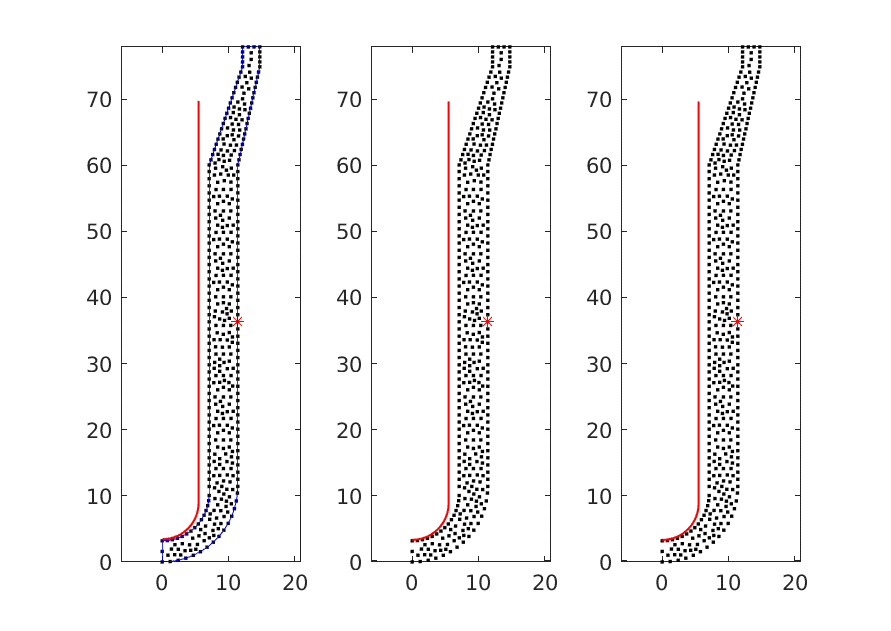
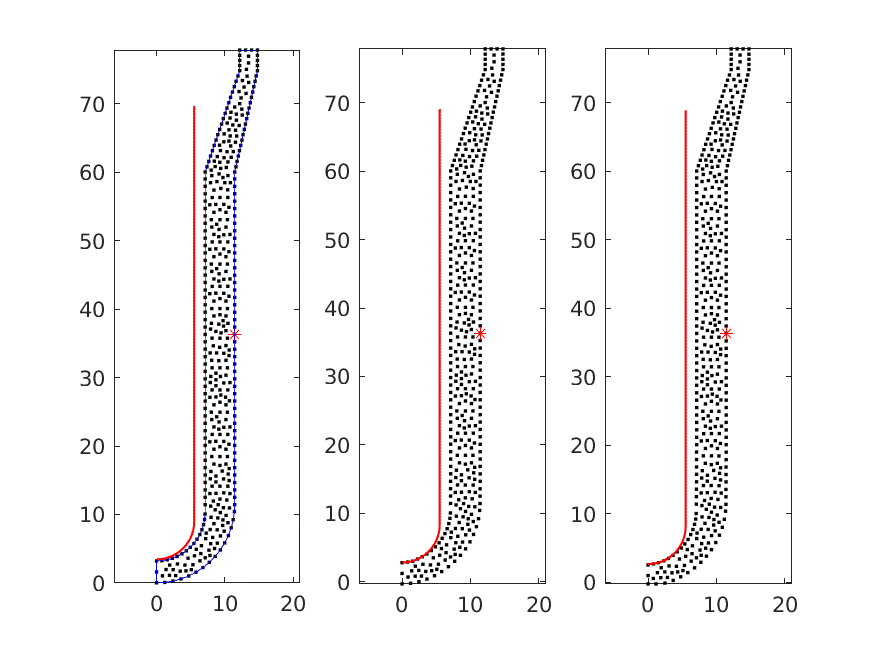
Finished fixing eigenvalue routine

Changed region(s): [[0.6171, 0.0602, 0.9257, 0.9334], [0.0926, 0.0602, 0.3703, 0.9334], [0.3703, 0.0602, 0.648, 0.9334]]

diff --git a/lib/Eigen/src/dsyevh3.c b/lib/Eigen/src/dsyevh3.c
@@ -28,7 +28,7 @@
 #define SQR(x)      ((x)*(x))                        // x^2 
 
 // ----------------------------------------------------------------------------
-int dsyevh3(double A[3][3], double Q[3][3], double w[3])
+int dsyevh3(double ** A_in, double ** Q_in, double w[3])
 // ----------------------------------------------------------------------------
 // Calculates the eigenvalues and normalized eigenvectors of a symmetric 3x3
 // matrix A using Cardano's method for the eigenvalues and an analytical
@@ -63,8 +63,21 @@ int dsyevh3(double A[3][3], double Q[3][3], double w[3])
   int j;                // Loop counter
 #endif
 
+  double A[3][3], Q[3][3];
+
+  for ( int i = 0 ; i < 3 ; i++)
+  {
+    for ( int j = 0 ; j < 3 ; j++)
+    {
+      A[i][j] = A_in[i][j];
+      Q[i][j] = Q_in[i][j];
+    }
+
+  }
+
+
   // Calculate eigenvalues
-  dsyevc3(A, w);
+  dsyevc3(A_in, w);
 
 #ifndef EVALS_ONLY
 //  n0 = SQR(A[0][0]) + SQR(A[0][1]) + SQR(A[0][2]);
@@ -100,7 +113,7 @@ int dsyevh3(double A[3][3], double Q[3][3], double w[3])
   // not cause problems: If w[0] = w[1], then A - w[0] * I has rank 1,
   // i.e. all columns of A - w[0] * I are linearly dependent.
   if (norm <= error)
-    return dsyevq3(A, Q, w);
+    return dsyevq3(A_in, Q_in, w);
   else                      // This is the standard branch
   {
     norm = sqrt(1.0 / norm);
@@ -115,7 +128,7 @@ int dsyevh3(double A[3][3], double Q[3][3], double w[3])
   Q[2][1]  = (A[0][0] - w[1]) * (A[1][1] - w[1]) - Q[2][1];
   norm     = SQR(Q[0][1]) + SQR(Q[1][1]) + SQR(Q[2][1]);
   if (norm <= error)
-    return dsyevq3(A, Q, w);
+    return dsyevq3(A_in, Q_in, w);
   else
   {
     norm = sqrt(1.0 / norm);
@@ -129,6 +142,18 @@ int dsyevh3(double A[3][3], double Q[3][3], double w[3])
   Q[1][2] = Q[2][0]*Q[0][1] - Q[0][0]*Q[2][1];
   Q[2][2] = Q[0][0]*Q[1][1] - Q[1][0]*Q[0][1];
 #endif
+
+  for ( int i = 0 ; i < 3 ; i++)
+  {
+    for ( int j = 0 ; j < 3 ; j++)
+    {
+      Q_in[i][j] = Q[i][j];
+    }
+
+  }
+
+
+
 
   return 0;
 }

diff --git a/MFREEX/src/Deformation/update_Polar_Decomposition.c b/MFREEX/src/Deformation/update_Polar_Decomposition.c
@@ -1,8 +1,76 @@
 #include "Deformation/update_Polar_Decomposition.h"
+#include "dsyevq3.h"
+#include "dsyevv3.h"
+#include "dsyevh3.h"
+#include <math.h>
 
 
 int update_Polar_Decomposition(state_variables * stateNew, state_variables * stateOld, double dt)
 {
+
+
+			// algorithm from simo
+			// mmtr_mlt(stateNew->F, stateNew->F, stateNew->B);
+			// MAT * Q = stateNew->m_temp1;
+			// double w[3];
+			// dsyevh3(stateNew->B->me,Q->me,w);
+
+			// MAT * V_n_1 = stateNew->V;
+			// MAT * V_n = stateOld->V;
+			// MAT * B = stateNew->B;
+			// MAT * invV_n_1 = stateNew->m_temp4;
+
+			// double lambda_1 = sqrt(w[0]);
+			// double lambda_2 = sqrt(w[1]);
+			// double lambda_3 = sqrt(w[2]);
+
+			// double i1 = lambda_1 + lambda_2 + lambda_3;
+			// double i2 = lambda_1*lambda_2 + lambda_1*lambda_3 + lambda_2*lambda_3;
+			// double i3 = lambda_1*lambda_2*lambda_3;
+
+			// double D = i1*i2 - i3;
+			// double invD = 1.000/D;
+
+
+			// // FInd Bsqr 
+
+			// MAT * B_sqr = stateNew->m_temp2;
+
+			// m_zero(B_sqr);
+
+			// B_sqr->me[0][0] = lambda_1*lambda_1;
+			// B_sqr->me[1][1] = lambda_2*lambda_2;
+			// B_sqr->me[2][2] = lambda_3*lambda_3;
+
+
+
+
+
+			// // Find V_n_1 = 1/D [ -B^2 + (i1^2 - i2)B + i1*i3 *1]
+			// double fac1 = (i1*i1 - i2);
+			// double fac2 = i1*i3;
+			// double fac3 = 1.00/i3;
+
+			// for ( int i = 0 ; i < 3 ; i++)
+			// {
+			// 	for ( int j = 0 ; i < 3 ; j++)
+			// 	{
+			// 		if ( i == j)
+			// 		{
+			// 			V_n_1->me[i][j] = invD*(-B_sqr->me[i][j] + fac1*B->me[i][j] + fac2 );
+			// 			invV_n_1->me[i][j] = fac3*(B->me[i][j] - i1*V_n_1->me[i][j] + i2);
+
+			// 		}else{
+			// 			V_n_1->me[i][j] = invD*(-B_sqr->me[i][j] + fac1*B->me[i][j] );
+			// 			invV_n_1->me[i][j] = fac3*(B->me[i][j] - i1*V_n_1->me[i][j] );
+
+			// 		}
+			// 	}
+			// }
+			// // Find V-1
+			// stateNew->
+			// // FInd R
+
 
 
 

diff --git a/MFREEX/src/Force/Internal/internalForce_Inelastic.c b/MFREEX/src/Force/Internal/internalForce_Inelastic.c
@@ -22,7 +22,7 @@ internalForce_Inelastic(VEC * Fint, SCNI_OBJ * scni_obj,
 
 		// zero internal force input
 	__zero__(Fint->ve,Fint->max_dim);
-
+	double rho;
 
 	// create pointer to correct material function
 	int (*mat_func_ptr)(state_variables *,state_variables * ,VEC *, double) = NULL;
@@ -30,6 +30,7 @@ internalForce_Inelastic(VEC * Fint, SCNI_OBJ * scni_obj,
 	if ( strcmp (Material, "BUCKLEY") == 0 )
 	{
 		mat_func_ptr = &buckleyStress;
+		rho = matParams->ve[31];
 
 	}else if( strcmp(Material, "J2") == 0 )
 	{
@@ -161,6 +162,27 @@ internalForce_Inelastic(VEC * Fint, SCNI_OBJ * scni_obj,
 
 
 			}
+
+
+			/* ------------------------------------------*/
+			/* -----------------Damping -----------------*/
+			/* ------------------------------------------*/
+
+			double b1 = 0.06;
+			double b2 = 1.44;
+			double Le = sqrt(scni[i]->area);
+			double Cd = 1400;
+			double div_v = stateNew[i]->div_v;
+			double qv = 0;
+			if ( div_v < 0)
+			{
+				qv = rho*Le*(b2 * (Le/1000) * pow(div_v,2) - b1*Cd * div_v);
+			}
+
+
+
+
+
 			/* ------------------------------------------*/
 			/* --------------Internal Force--------------*/
 			/* ------------------------------------------*/
@@ -179,10 +201,10 @@ internalForce_Inelastic(VEC * Fint, SCNI_OBJ * scni_obj,
 			//-------------------------------------------------//
 
 
-			sigma->ve[0] = (stateNew[i]->sigma->me[0][0])/1e6 ;
-			sigma->ve[1] = (stateNew[i]->sigma->me[1][1])/1e6 ;
+			sigma->ve[0] = (stateNew[i]->sigma->me[0][0])/1e6 + qv;
+			sigma->ve[1] = (stateNew[i]->sigma->me[1][1])/1e6 + qv;
 			sigma->ve[2] = stateNew[i]->sigma->me[0][1]/1e6;
-			sigma->ve[3] = (stateNew[i]->sigma->me[2][2])/1e6;
+			sigma->ve[3] = (stateNew[i]->sigma->me[2][2])/1e6 + qv;
 
 
 

diff --git a/lib/Eigen/src/dsyevq3.c b/lib/Eigen/src/dsyevq3.c
@@ -26,7 +26,7 @@
 
 
 // ----------------------------------------------------------------------------
-int dsyevq3(double A[3][3], double Q[3][3], double w[3])
+int dsyevq3(double ** A_in, double ** Q_in, double w[3])
 // ----------------------------------------------------------------------------
 // Calculates the eigenvalues and normalized eigenvectors of a symmetric 3x3
 // matrix A using the QL algorithm with implicit shifts, preceded by a
@@ -53,7 +53,17 @@ int dsyevq3(double A[3][3], double Q[3][3], double w[3])
   int nIter;
   int m;
 
+  double A[3][3], Q[3][3];
 
+  for ( int i = 0 ; i < 3 ; i++)
+  {
+    for ( int j = 0 ; j < 3 ; j++)
+    {
+      A[i][j] = A_in[i][j];
+      Q[i][j] = Q_in[i][j];
+    }
+
+  }
 
 
   // Transform A to real tridiagonal form by the Householder method
@@ -133,6 +143,15 @@ int dsyevq3(double A[3][3], double Q[3][3], double w[3])
     }
   }
 
+
+  for ( int i = 0 ; i < 3 ; i++)
+  {
+    for ( int j = 0 ; j < 3 ; j++)
+    {
+      Q_in[i][j] = Q[i][j];
+    }
+
+  }
 
 
 

diff --git a/lib/Eigen/src/dsyevc3.c b/lib/Eigen/src/dsyevc3.c
@@ -28,7 +28,7 @@
 
 
 // ----------------------------------------------------------------------------
-int dsyevc3(double A[3][3], double w[3])
+int dsyevc3(double ** A_in, double w[3])
 // ----------------------------------------------------------------------------
 // Calculates the eigenvalues of a symmetric 3x3 matrix A using Cardano's
 // analytical algorithm.
@@ -45,6 +45,20 @@ int dsyevc3(double A[3][3], double w[3])
 // ----------------------------------------------------------------------------
 {
   double m, c1, c0;
+
+  double A[3][3];
+
+  for ( int i = 0 ; i < 3 ; i++)
+  {
+    for ( int j = 0 ; j < 3 ; j++)
+    {
+      A[i][j] = A_in[i][j];
+    }
+
+  }
+
+
+
   
   // Determine coefficients of characteristic poynomial. We write
   //       | a   d   f  |
@@ -77,5 +91,13 @@ int dsyevc3(double A[3][3], double w[3])
   w[1] -= s;
 
   return 0;
+
+
+
+
+
+
+
+
 }
 

diff --git a/problems/preform/preform.c b/problems/preform/preform.c
@@ -44,7 +44,7 @@ const double TMAX = 0.4;
 double delta_t = 3e-7;
 
 // Meshfree parameters
-const double dmax = 2.2;
+const double dmax = 2.5;
 const int is_stabalised = 0;
 const int is_constant_support_size = 0;
 
@@ -69,7 +69,7 @@ int main(int argc, char** argv) {
 
 
 	/*  Material struct */
-	VEC * matParams = v_get(31);
+	VEC * matParams = v_get(32);
 	matParams->ve[0] = 2.814e-3; // VS
 	matParams->ve[1] = 0.526e-3; // VP
 	matParams->ve[2] = (1.7057e6); // mu*_0
@@ -103,6 +103,7 @@ int main(int argc, char** argv) {
 	matParams->ve[28] = 0.9856; // BETA
 	matParams->ve[29] = -0.0356; // k
 	matParams->ve[30] = 15.393; // b 
+	matParams->ve[31] = rho; // b 
 
 
 

diff --git a/MFREEX/src/Material/Buckley/buckleyStress.c b/MFREEX/src/Material/Buckley/buckleyStress.c
@@ -4,7 +4,7 @@
 #include "contraction.h"
 #include "Deformation/rotate_tensor.h"
 #include "symmeig_small.h"
-
+#include "dsyevc3.h"
 int 
 buckleyStress(state_variables * stateNew, 
 	state_variables * stateOld,
@@ -65,7 +65,7 @@ buckleyStress(state_variables * stateNew,
 			// "Eigen values of V in internalForce");
 
 
-			//dsyevc3(stateNew->Vdot->me, stateNstateNew->lambdaDot->ve);
+			dsyevc3(stateNew->Vdot->me, stateNew->lambdaDot->ve);
 
 // 			tracecatch(
 // 			symmeig(stateNew->Dbar,stateNew->eigVecDBar,stateNew->eigValDBar);,

diff --git a/MFREEX/src/Material/Buckley/buckleyConf.c b/MFREEX/src/Material/Buckley/buckleyConf.c
@@ -18,6 +18,7 @@
 #include "Material/Buckley/buckleyConf.h"
 #include "dsyevq3.h"
 #include "dsyevv3.h"
+#include "dsyevh3.h"
 
 #include "symmeig_small.h"
 
@@ -155,8 +156,7 @@ int buckleyConf(state_variables * stateNew, state_variables * stateOld,
 
 	// tracecatch(symmeig(stateNew->Bbar,eigVecB,eigValB);,	
 	// "Eigen values of Bbar in Buckley conf");
-
-	dsyevq3(stateNew->Bbar->base,eigVecB->base,eigValB->ve);
+	dsyevh3(stateNew->Bbar->me,eigVecB->me,eigValB->ve);
 
 
 	// 		printf("for loop print\n");

diff --git a/lib/Eigen/include/dsyevh3.h b/lib/Eigen/include/dsyevh3.h
@@ -19,6 +19,6 @@
 #ifndef __DSYEVH3_H
 #define __DSYEVH3_H
 
-int dsyevh3(double A[3][3], double Q[3][3], double w[3]);
+int dsyevh3(double ** A_in, double ** Q_in, double w[3]);
 
 #endif

diff --git a/lib/Eigen/include/dsyevq3.h b/lib/Eigen/include/dsyevq3.h
@@ -19,6 +19,6 @@
 #ifndef __DSYEVQ3_H
 #define __DSYEVQ3_H
 
-int dsyevq3(double A[3][3], double Q[3][3], double w[3]);
+int dsyevq3(double ** A, double ** Q, double w[3]);
 
 #endif

diff --git a/lib/Eigen/include/dsyevc3.h b/lib/Eigen/include/dsyevc3.h
@@ -19,6 +19,6 @@
 #ifndef __DSYEVC3_H
 #define __DSYEVC3_H
 
-int dsyevc3(double A[3][3], double w[3]);
+int dsyevc3(double ** A, double w[3]);
 
 #endif
